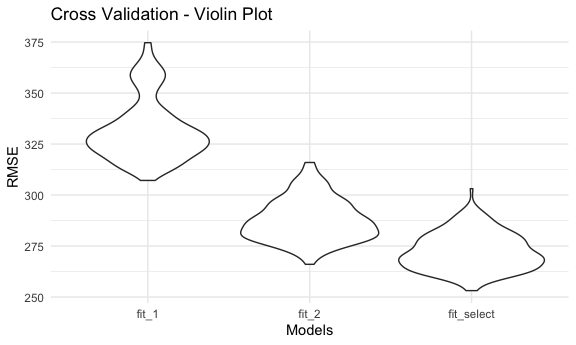
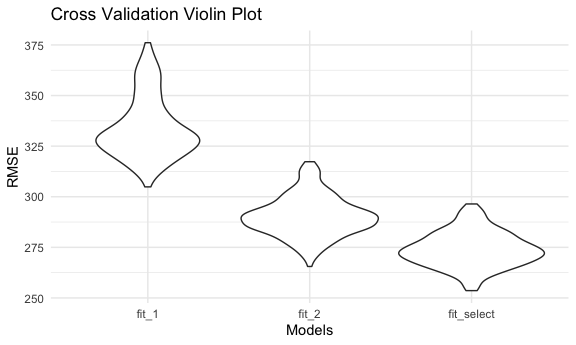
prob 3

diff --git a/p8105_hw6_mc4959.md b/p8105_hw6_mc4959.md
@@ -454,23 +454,7 @@ cv_df =
     rmse_fit_1 = map2_dbl(.x = fit_1, .y = test, ~rmse(model = .x, data = .y)),
     rmse_fit_2 = map2_dbl(.x = fit_2, .y = test, ~rmse(model = .x, data = .y))
   )
-```
 
-    ## Warning: Problem with `mutate()` input `rmse_fit_select`.
-    ## ℹ prediction from a rank-deficient fit may be misleading
-    ## ℹ Input `rmse_fit_select` is `map2_dbl(.x = fit_select, .y = test, ~rmse(model = .x, data = .y))`.
-
-    ## Warning in predict.lm(model, data): prediction from a rank-deficient fit may be
-    ## misleading
-
-    ## Warning: Problem with `mutate()` input `rmse_fit_select`.
-    ## ℹ prediction from a rank-deficient fit may be misleading
-    ## ℹ Input `rmse_fit_select` is `map2_dbl(.x = fit_select, .y = test, ~rmse(model = .x, data = .y))`.
-
-    ## Warning in predict.lm(model, data): prediction from a rank-deficient fit may be
-    ## misleading
-
-``` r
 cv_df %>% 
   select(starts_with("rmse")) %>% 
   pivot_longer(
@@ -482,7 +466,7 @@ cv_df %>%
   ggplot(aes(x = model, y = rmse)) +
   geom_violin() +
   labs(
-    title = "Cross Validation - Violin Plot",
+    title = "Cross Validation Violin Plot",
     x = "Models",
     y = "RMSE"
   )
@@ -506,3 +490,135 @@ highest RMSE value, while the `fit_2` model has the second to the lowest
 RMSE value.
 
 -----
+
+### Problem 3
+
+##### Load and clean the data.
+
+``` r
+weather_df = 
+  rnoaa::meteo_pull_monitors(
+    c("USW00094728"),
+    var = c("PRCP", "TMIN", "TMAX"), 
+    date_min = "2017-01-01",
+    date_max = "2017-12-31") %>%
+  mutate(
+    name = recode(id, USW00094728 = "CentralPark_NY"),
+    tmin = tmin / 10,
+    tmax = tmax / 10) %>%
+  select(name, id, everything())
+```
+
+    ## Registered S3 method overwritten by 'hoardr':
+    ##   method           from
+    ##   print.cache_info httr
+
+    ## using cached file: /Users/angelinechen/Library/Caches/R/noaa_ghcnd/USW00094728.dly
+
+    ## date created (size, mb): 2020-12-09 12:11:37 (7.536)
+
+    ## file min/max dates: 1869-01-01 / 2020-12-31
+
+<br>
+
+##### Bootstraps
+
+``` r
+set.seed(1234)
+
+boot_samp = function(df) {
+  sample_frac(df, replace = TRUE)
+}
+```
+
+``` r
+boot_df = 
+  data_frame(
+    strap_number = 1:5000,
+    strap_sample = rerun(5000, boot_samp(weather_df))
+  )
+
+boot_results = 
+  boot_df %>% 
+  mutate(
+    models = map(.x = strap_sample, ~lm(tmax ~ tmin, data = .x)), 
+    results = map(models, broom::glance)
+  ) %>%
+  select(strap_number, results) %>% 
+  unnest(results)
+```
+
+<br>
+
+##### Distribution of R-Squared (r̂^ 2)
+
+``` r
+rsqu_p = 
+  boot_results %>%
+  ggplot(aes(x = adj.r.squared)) +
+  geom_density(fill = '#85C1E9', aplpha = 0.6) +
+  labs(
+      title = "Distribution of R-Squared",
+      x = "R-Squared"
+    )
+
+rsqu_p
+```
+
+<img src="p8105_hw6_mc4959_files/figure-gfm/r-squared-1.png" width="90%" />
+
+From the plot above, it seems that the distribution of R-squared follows
+normal distribution, centered around 0.91. Thus, we can say that the
+model is a good estimate of the response variable.
+
+The 95% CI for the adjusted R-squared is (0.8933721, 0.9274341).
+
+<br>
+
+##### Log (β̂ 0∗β̂ 1)
+
+``` r
+boot_2_df = 
+  weather_df %>% 
+  bootstrap(5000, id = "strap_number") %>% 
+  mutate(
+    models = map(.x = strap, ~lm(tmax ~ tmin, data = .x)), 
+    results = map(models, broom::tidy)
+  ) %>% 
+  select(strap_number, results) %>% 
+  unnest(results) %>% 
+  select(term, estimate) %>%
+  pivot_wider(
+    names_from = term,
+    values_from = estimate
+  ) %>% 
+  unnest(cols = c(`(Intercept)`, tmin)) %>%
+  rename(
+    beta_0 = '(Intercept)',
+    beta_1 = tmin
+  ) %>% 
+ mutate(
+    log_fx = log(beta_0*beta_1)
+  )
+```
+
+``` r
+log_p = 
+  boot_2_df %>%
+  ggplot(aes(x = log_fx)) +
+  geom_density(fill = '#F7DC6F', alpha = 0.6) +
+  labs(
+      title = 'Distribution of Log Function',
+      x = 'Log (beta_0 * beta_1)'
+    )
+
+log_p
+```
+
+<img src="p8105_hw6_mc4959_files/figure-gfm/log plot-1.png" width="90%" />
+
+From the plot above, we can see that the estimated log function (beta\_0
+\* beta\_1) plot also follows normal distribution, centered around
+2.025.
+
+The 95% CI for log (beta\_0 \* beta\_1) is (1.965647, 2.0595859).
